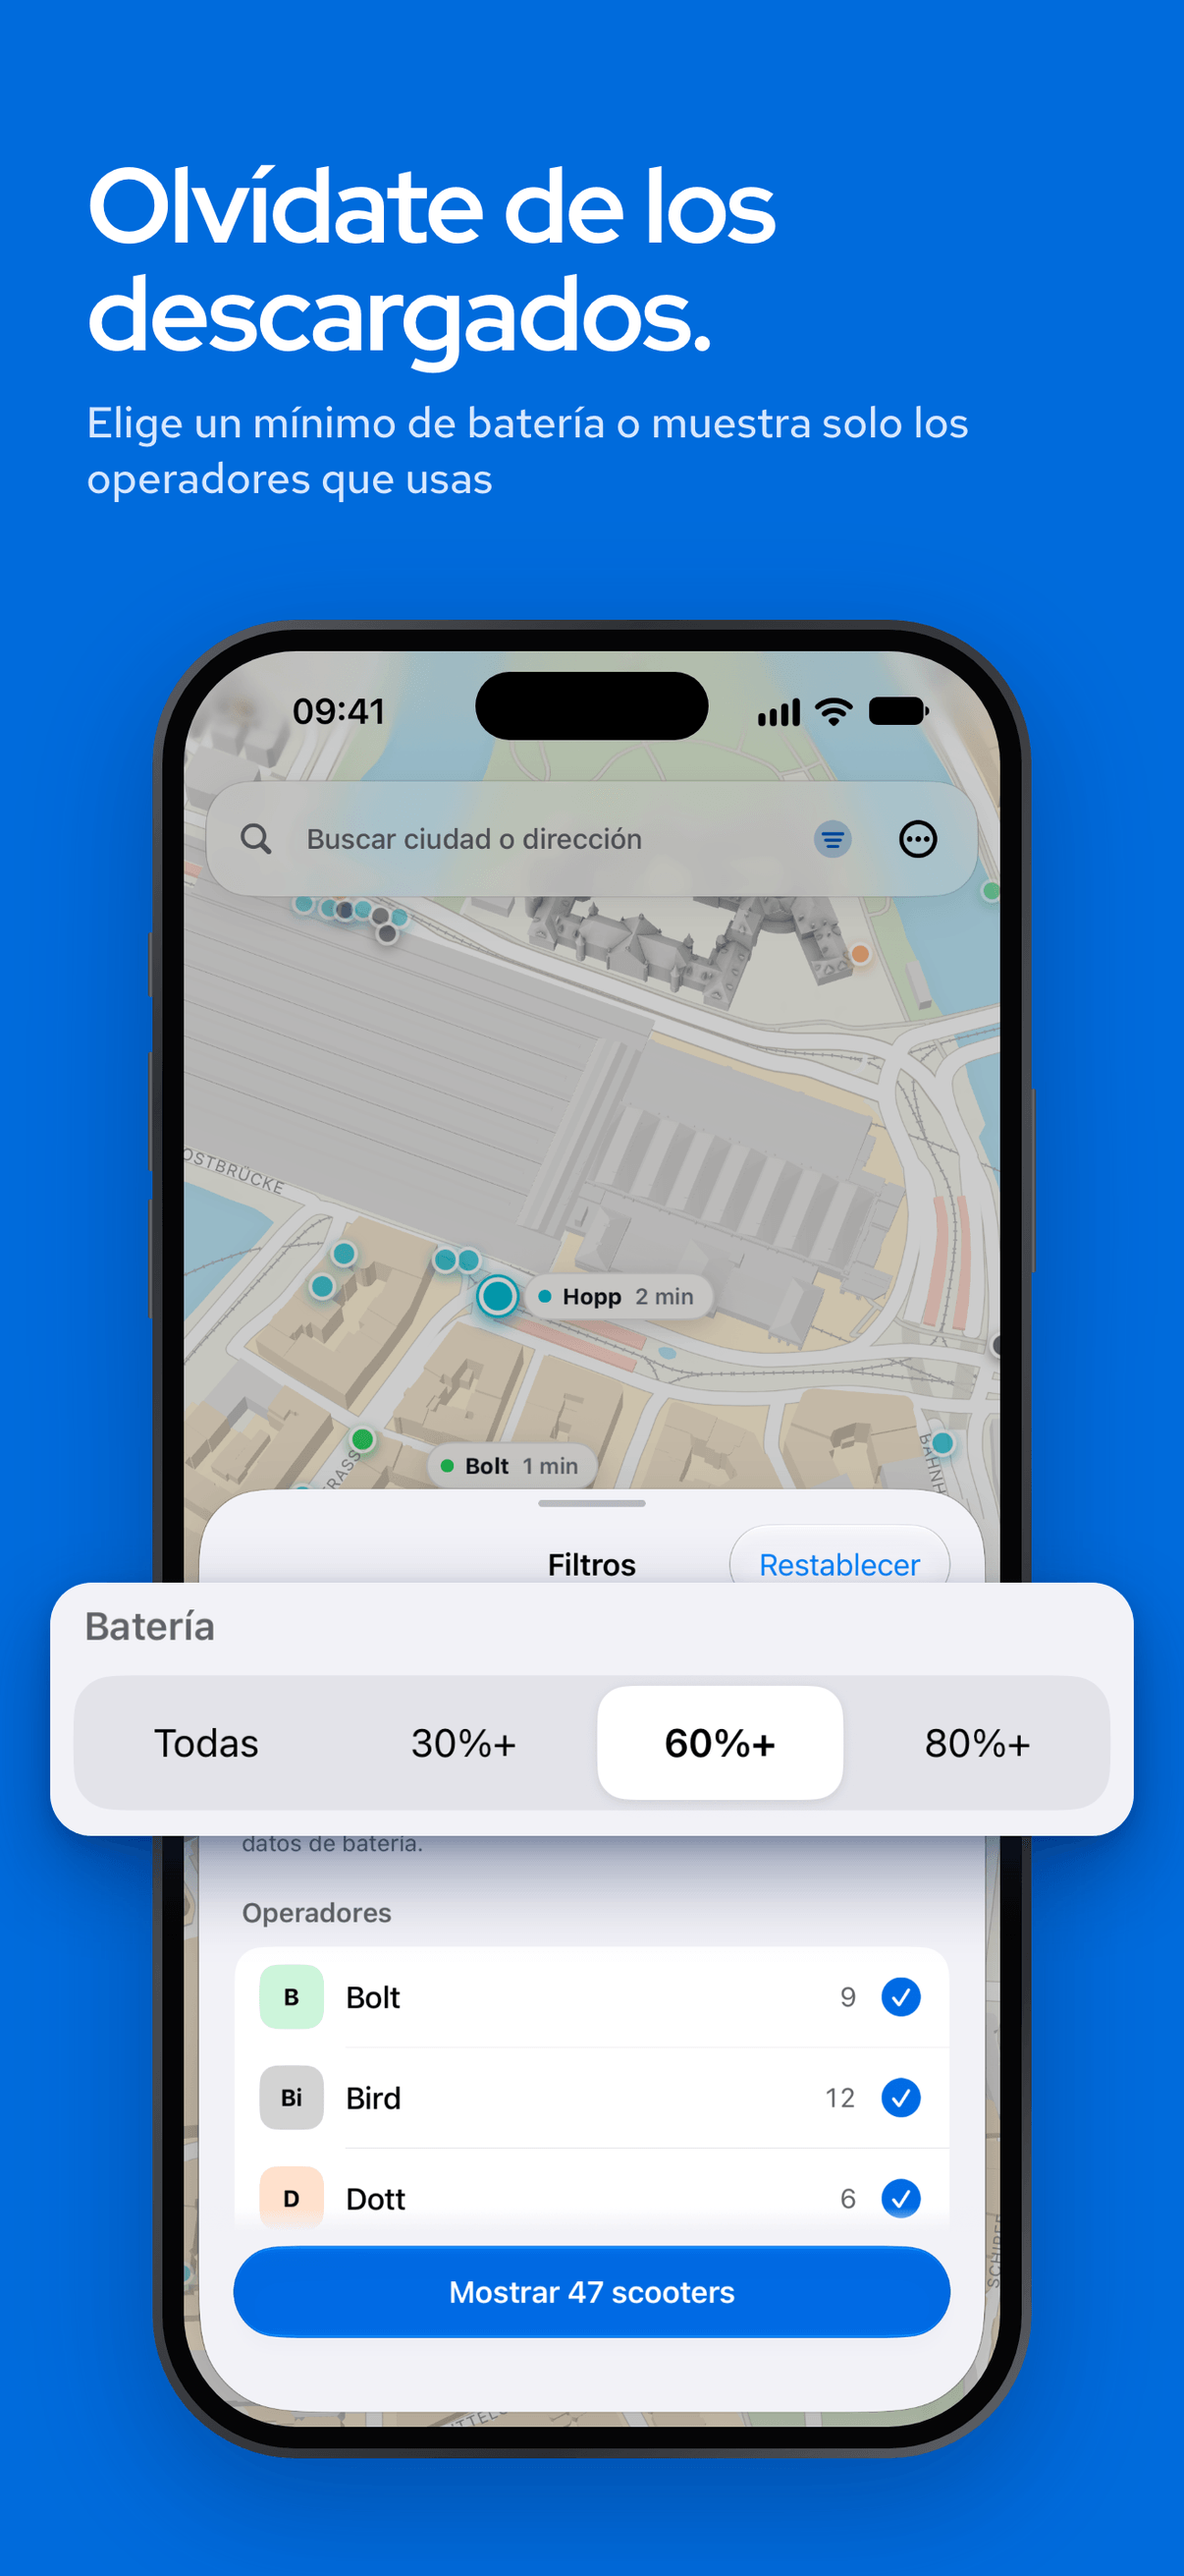
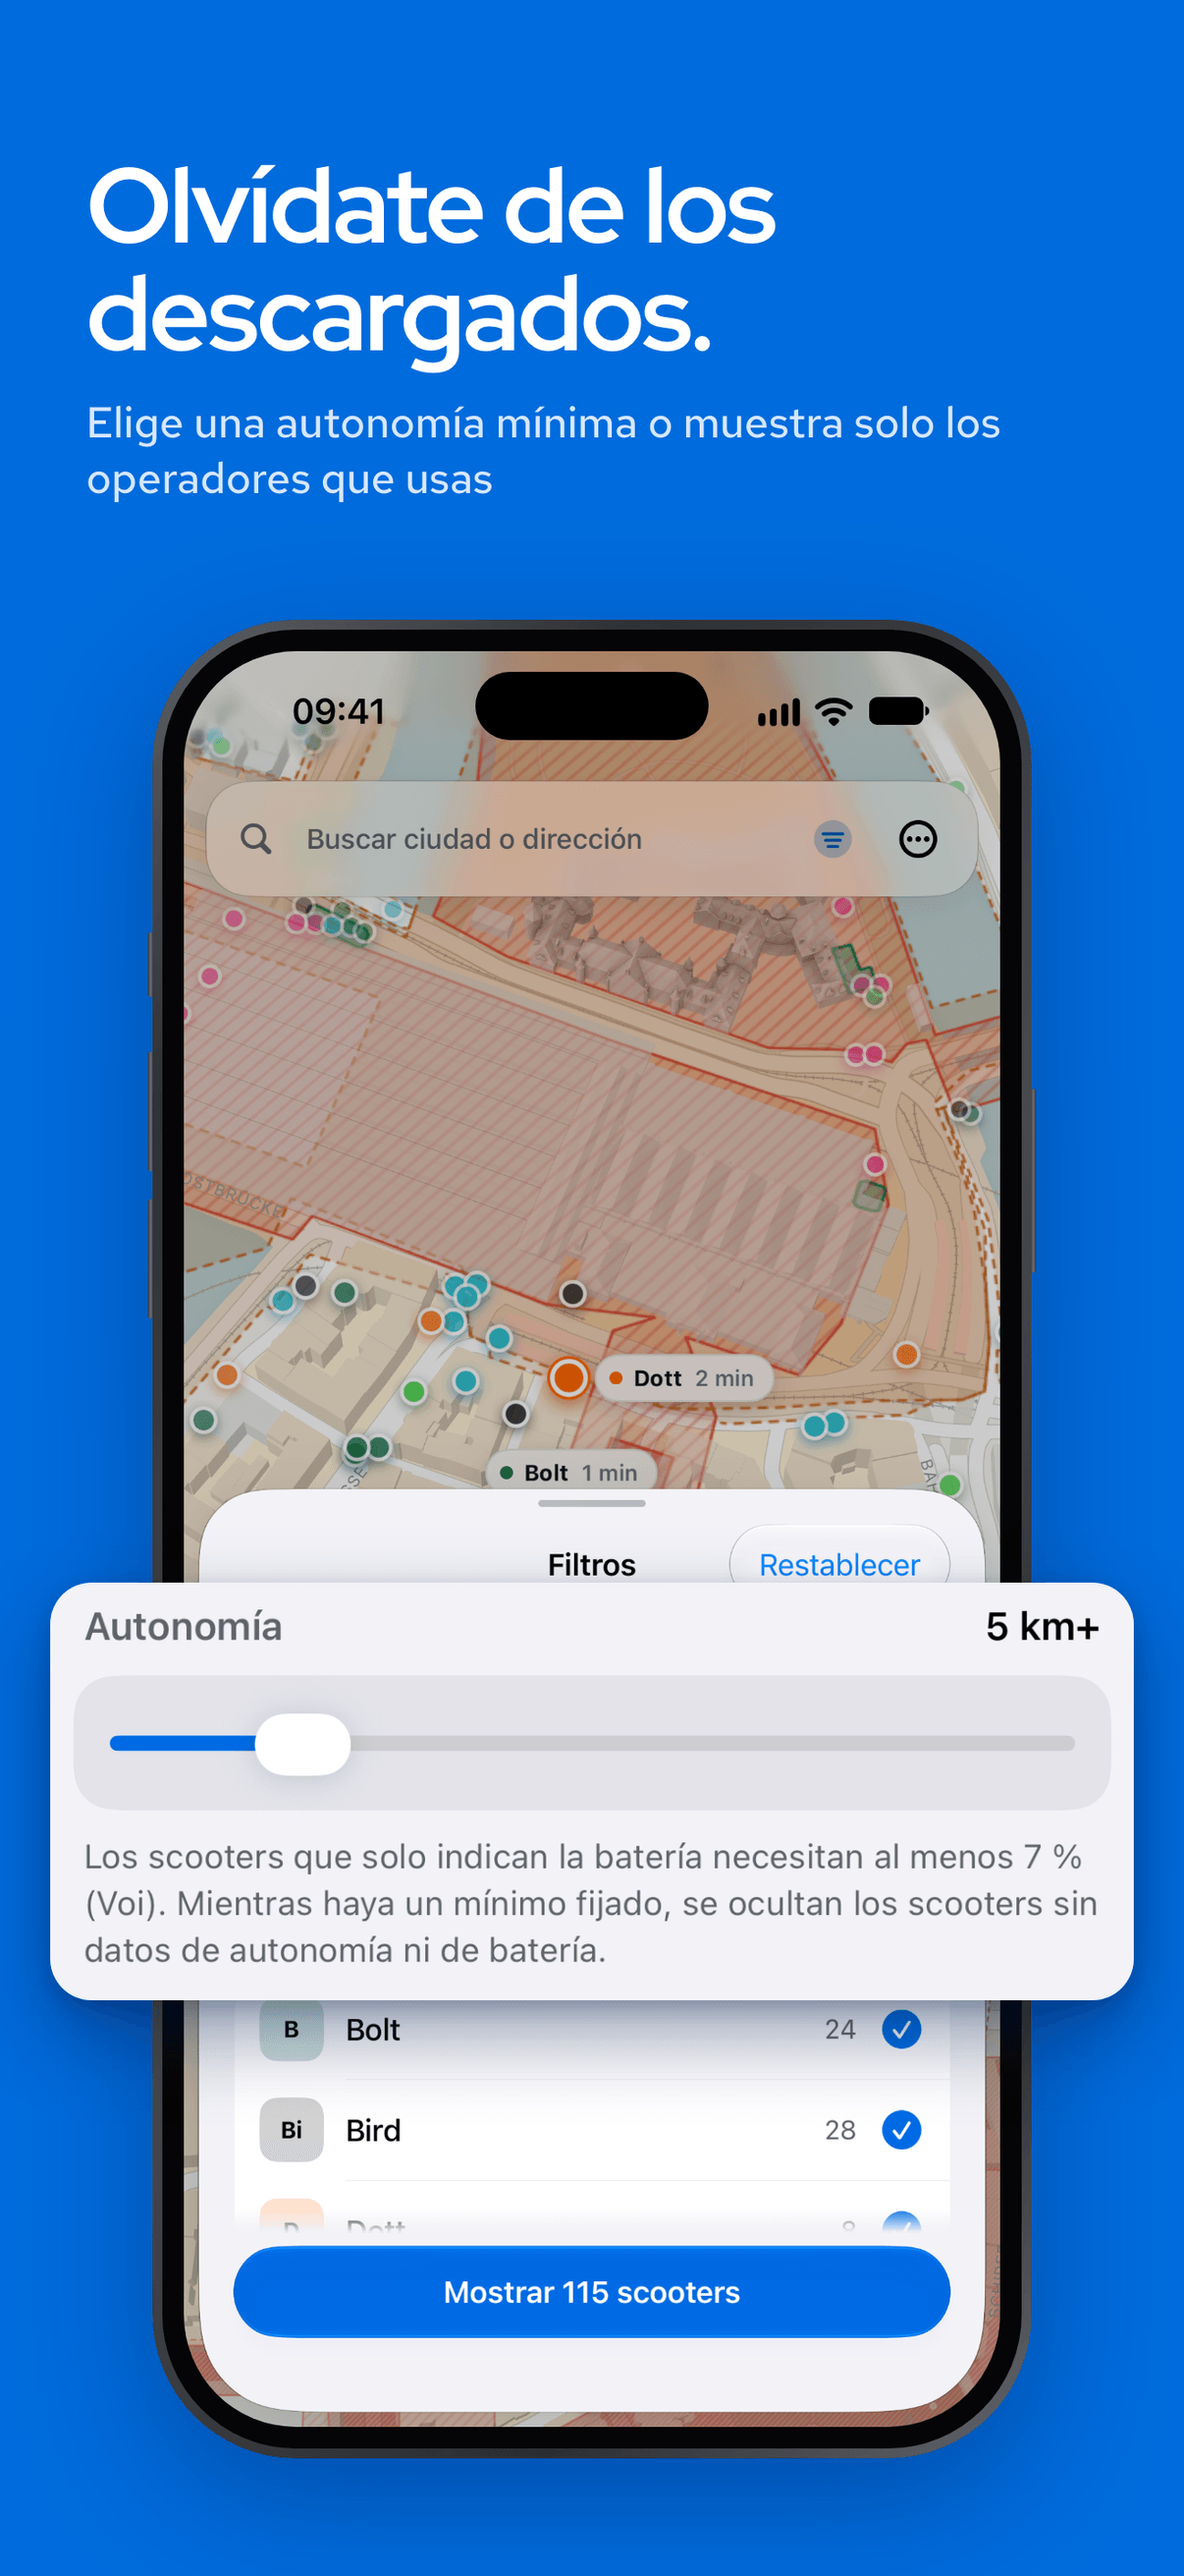
App Store: the battery frame shows 1.5.0's range filter, at 5 km+ (3 mi+ in English), taken again from 1.5.0 on 13 November 2026 in the ten listing languages, with its line under the headline saying "Set the minimum range you need, or keep only the providers you use" in place of "Set a minimum batte

diff --git a/docs/app-store/README.md b/docs/app-store/README.md
@@ -102,8 +102,11 @@ Portrait, PNG without alpha, one set for each listing language:
   Pro), the size App Store Connect requires (`APP_IPHONE_61`);
 - `screenshots/<locale>/13/`: 2064×2752 (iPad Pro 13-inch), which App Store
   Connect requires since the app runs on iPad (`APP_IPAD_PRO_3GEN_129`): the
-  same seven frames, made on 23 October 2026, on a drawn iPad with the panel
+  same frames, made on 23 October 2026, on a drawn iPad with the panel
   beside the map, the headlines saying "iPad" where the iPhone's say "iPhone".
+  There are six: the battery frame showed the levels that 1.5.0's range slider
+  replaced, so it left the iPad sets with 1.5.0 until the iPad's is taken again
+  with a minimum range.
 
 Each frame, made on 20 October 2026, sets a headline on blue above a drawn
 iPhone showing the app with live data, and lifts the part of the screen the
@@ -117,10 +120,12 @@ translated. Every language opens on the providers and shows the pier second:
   with the location at 34.01016,-118.49496 and the flat terrain users get;
 - the price on a Voi scooter's card;
 - the route to a scooter 3 to 5 minutes' walk away;
-- the battery filter at 60%+, which the version after 1.3.0 replaces with the
-  range slider (issue #12's third take): its frame and headline ("Set a minimum
-  battery level") wait to be taken again with a minimum range, such as 5 km+
-  (set it back to Any afterwards: the app keeps it);
+- the range filter at 5 km+ (3 mi+ in English, which the app shows in miles),
+  taken again from 1.5.0 on 13 November 2026 when the range slider replaced the
+  battery levels (issue #12's third take): the Filters sheet lifted down to the
+  end of the slider's help text, which makes the panel taller than the others,
+  so it grows downward and the sheet's title stays in view (set the range back
+  to Any afterwards: the app keeps it);
 - the same street at night;
 - Europe at night, with each city's count.
 
